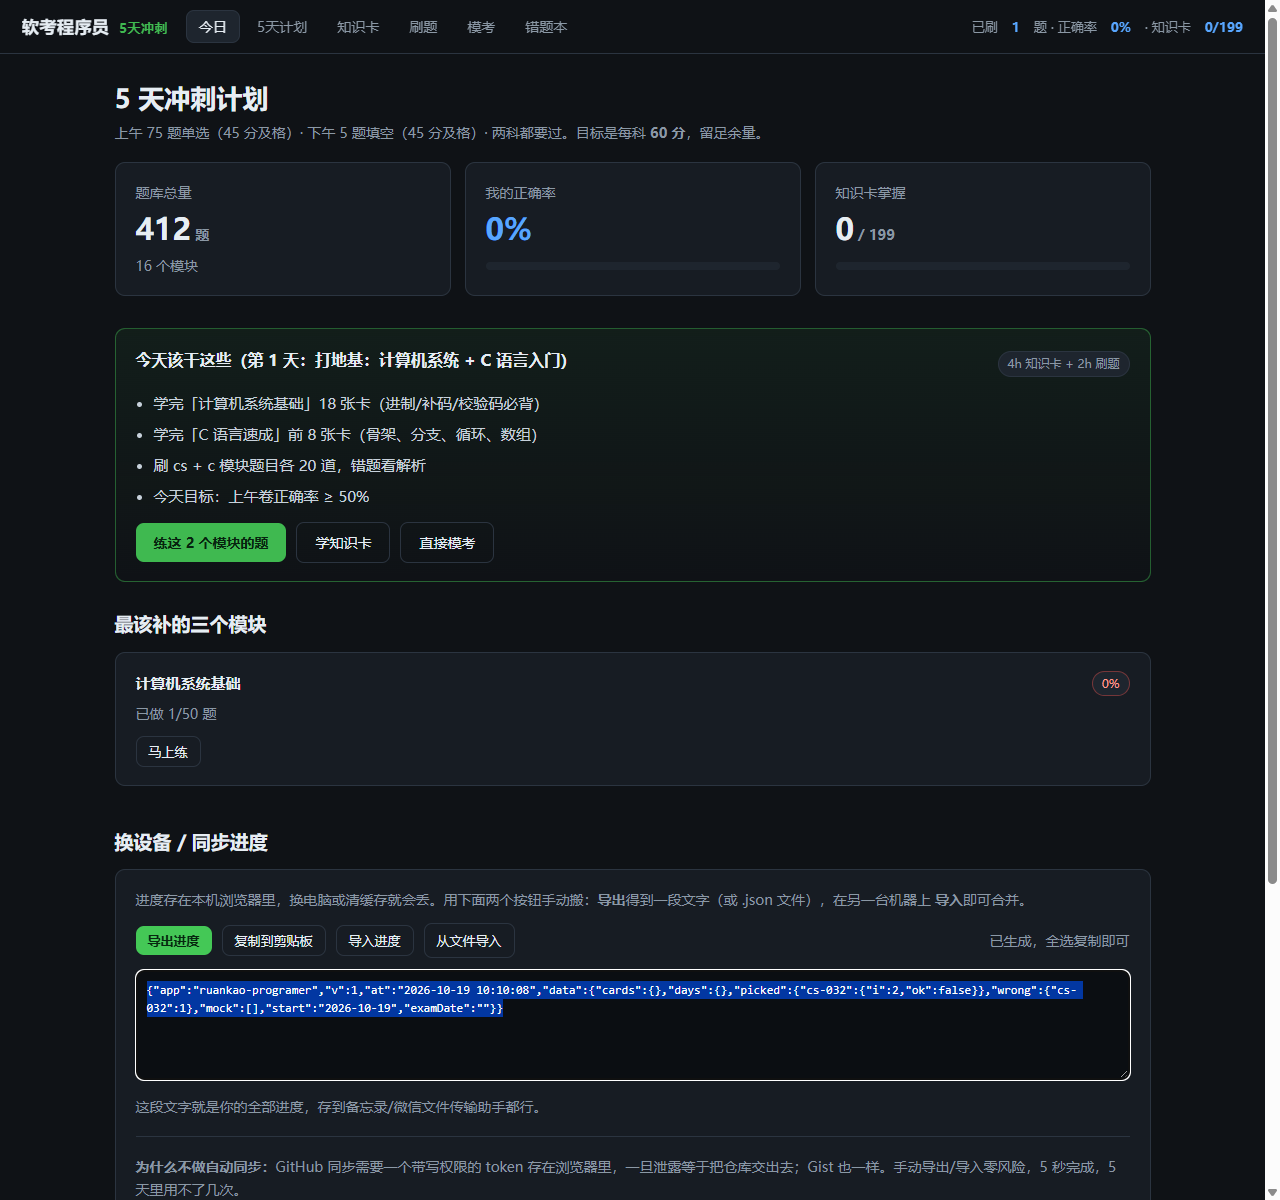
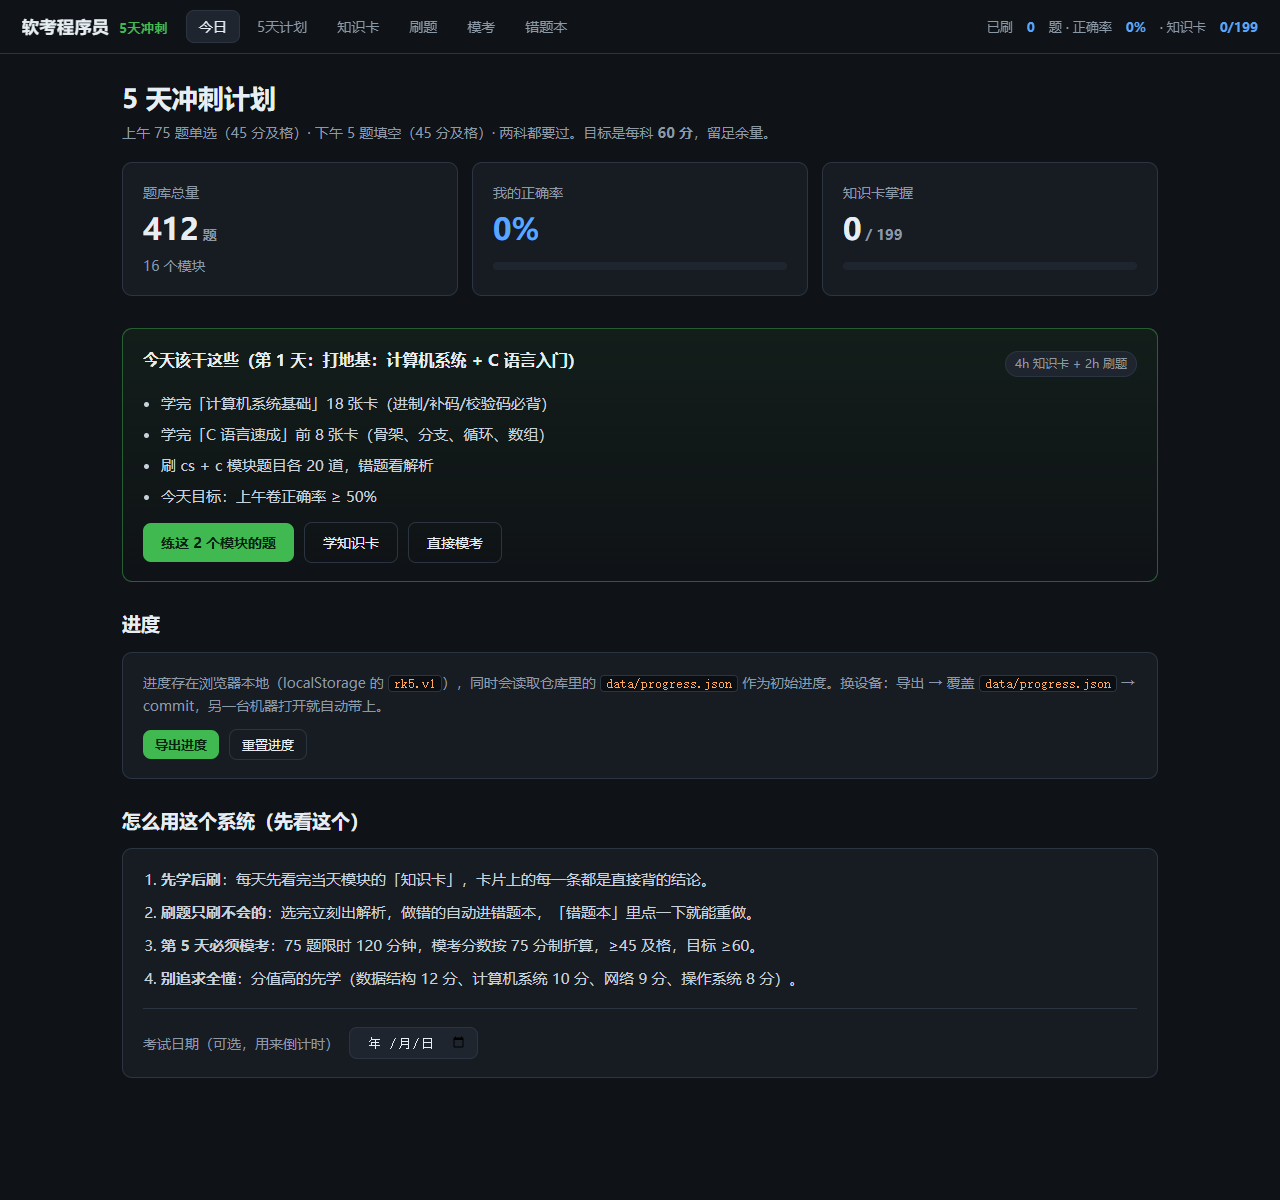
进度改为 data/progress.json，页面只保留导出/重置
按简化要求重做：去掉导入、合并、剪贴板等一堆逻辑，只留真正需要的部分。

新增 data/progress.json（结构固定，可手工编辑）：
  { app, v, at, data: { cards, days, picked, wrong, mock, start, examDate, savedAt } }

页面行为：
- 首页「进度」区只有两个按钮：导出进度、重置进度
- 导出 → 直接下载 progress.json（同名同格式），覆盖仓库里的文件后 commit 即可
- 启动时 fetch data/progress.json：本机为空、或仓库版 savedAt 更新时采用；否则保留本机记录
- file:// 下 fetch 被浏览器拦截，自动只走 localStorage，不报错
- 每次 save() 写入 savedAt 时间戳，用于判断哪边更新

README 补了完整的三步操作（导出 → 覆盖 → commit）。

diff --git a/app.js b/app.js
@@ -18,7 +18,7 @@
 
   /* ---------- 状态 ---------- */
   const KEY = 'rk5.v1';
-  const DEF = { cards: {}, days: {}, picked: {}, wrong: {}, mock: [], start: todayStr(), examDate: '' };
+  const DEF = { cards: {}, days: {}, picked: {}, wrong: {}, mock: [], start: todayStr(), examDate: '', savedAt: 0 };
   let S = load();
   function todayStr() { const d = new Date(); return d.getFullYear() + '-' + pad(d.getMonth() + 1) + '-' + pad(d.getDate()); }
   function pad(n) { return n < 10 ? '0' + n : '' + n; }
@@ -28,7 +28,7 @@
     try { return Object.assign(base, JSON.parse(localStorage.getItem(KEY) || '{}')); }
     catch (e) { return base; }
   }
-  function save() { localStorage.setItem(KEY, JSON.stringify(S)); }
+  function save() { S.savedAt = Date.now(); localStorage.setItem(KEY, JSON.stringify(S)); }
 
   /* ---------- 计划 ---------- */
   const PLAN = [
@@ -120,25 +120,15 @@
       <div class="sub" style="margin:6px 0 10px">已做 ${w.done}/${w.total} 题</div>
       <button class="btn sm ghost" onclick="startQuiz(['${w.m.id}'],15)">马上练</button></div>`).join('')}</div>` : ''}
 
-    <h2>换设备 / 同步进度</h2>
+    <h2>进度</h2>
     <div class="card">
-      <p class="sub" style="margin-bottom:12px">进度存在本机浏览器里，换电脑或清缓存就会丢。用下面两个按钮手动搬：<b>导出</b>得到一段文字（或 .json 文件），在另一台机器上 <b>导入</b>即可合并。</p>
+      <p class="sub" style="margin-bottom:12px">进度存在浏览器本地（localStorage 的 <code>rk5.v1</code>），同时会读取仓库里的 <code>data/progress.json</code> 作为初始进度。换设备：导出 → 覆盖 <code>data/progress.json</code> → commit，另一台机器打开就自动带上。</p>
       <div class="row">
         <button class="btn sm" onclick="exportProgress()">导出进度</button>
-        <button class="btn sm ghost" onclick="copyProgress()">复制到剪贴板</button>
-        <button class="btn sm ghost" onclick="importPrompt()">导入进度</button>
-        <label class="btn sm ghost" style="cursor:pointer;margin:0">从文件导入
-          <input type="file" accept=".json,application/json" onchange="importFile(this)" style="display:none">
-        </label>
+        <button class="btn sm ghost" onclick="resetAll()">重置进度</button>
         <span class="spacer"></span>
         <span class="sub" id="syncHint"></span>
       </div>
-      <div id="exportBox" style="display:none;margin-top:12px">
-        <textarea id="exportText" readonly style="width:100%;height:110px;background:#0b0e12;color:#8b98a5;border:1px solid var(--line);border-radius:8px;padding:10px;font:12px/1.5 Consolas,monospace;resize:vertical"></textarea>
-        <div class="row" style="margin-top:8px"><span class="sub">这段文字就是你的全部进度，存到备忘录/微信文件传输助手都行。</span></div>
-      </div>
-      <hr>
-      <div class="sub"><b>为什么不做自动同步：</b>GitHub 同步需要一个带写权限的 token 存在浏览器里，一旦泄露等于把仓库交出去；Gist 也一样。手动导出/导入零风险，5 秒完成，5 天里用不了几次。</div>
     </div>
 
     <h2>怎么用这个系统（先看这个）</h2>
@@ -151,14 +141,13 @@
       </ol>
       <hr>
       <div class="row"><span class="sub">考试日期（可选，用来倒计时）</span>
-        <input type="date" value="${S.examDate}" onchange="setExamDate(this.value)" style="background:var(--panel2);border:1px solid var(--line);color:var(--text);border-radius:8px;padding:6px 10px">
-        <button class="btn sm ghost" onclick="resetAll()">清空全部进度</button></div>
+        <input type="date" value="${S.examDate}" onchange="setExamDate(this.value)" style="background:var(--panel2);border:1px solid var(--line);color:var(--text);border-radius:8px;padding:6px 10px"></div>
     </div>`;
   }
 
   window.setExamDate = function (v) { S.examDate = v; save(); render(); };
 
-  /* ---------- 进度导出 / 导入（跨设备同步） ---------- */
+  /* ---------- 进度：导出 / 读取 progress.json / 重置 ---------- */
   const SYNC_TAG = 'ruankao-programer';
 
   function exportPayload() {
@@ -167,119 +156,52 @@
       v: 1,
       at: new Date().toISOString().slice(0, 19).replace('T', ' '),
       data: S
-    });
+    }, null, 2);
   }
 
+  /* 导出成 data/progress.json 同款格式；覆盖仓库里的文件后 commit 即可跨设备同步 */
   window.exportProgress = function () {
-    const box = document.getElementById('exportBox');
-    const ta = document.getElementById('exportText');
-    ta.value = exportPayload();
-    box.style.display = 'block';
-    ta.focus(); ta.select();
-    hint('已生成，全选复制即可');
+    const blob = new Blob([exportPayload()], { type: 'application/json' });
+    const url = URL.createObjectURL(blob);
+    const link = document.createElement('a');
+    link.href = url;
+    link.download = 'progress.json';
+    document.body.appendChild(link);
+    link.click();
+    document.body.removeChild(link);
+    setTimeout(() => URL.revokeObjectURL(url), 1000);
+    hint('已下载 progress.json，覆盖 data/progress.json 后 commit');
   };
 
-  window.copyProgress = function () {
-    const txt = exportPayload();
-    const done = () => hint('已复制到剪贴板');
-    if (navigator.clipboard && window.isSecureContext) {
-      navigator.clipboard.writeText(txt).then(done).catch(() => fallbackCopy(txt, done));
-    } else {
-      fallbackCopy(txt, done);
-    }
-  };
-
-  function fallbackCopy(txt, done) {
-    // file:// 下 clipboard API 不可用，退回 textarea + execCommand
-    const ta = document.createElement('textarea');
-    ta.value = txt;
-    ta.style.cssText = 'position:fixed;top:-9999px';
-    document.body.appendChild(ta);
-    ta.select();
-    let ok = false;
-    try { ok = document.execCommand('copy'); } catch (e) { ok = false; }
-    document.body.removeChild(ta);
-    if (ok) done(); else { window.exportProgress(); hint('无法自动复制，已展开文本，请手动全选复制'); }
-  }
-
-  window.importPrompt = function () {
-    const txt = prompt('把另一台机器导出的进度文字粘贴到这里：');
-    if (txt === null) return;
-    applyImport(txt);
-  };
-
-  window.importFile = function (input) {
-    const f = input.files && input.files[0];
-    if (!f) return;
-    const reader = new FileReader();
-    reader.onload = () => applyImport(String(reader.result || ''));
-    reader.onerror = () => alert('读取文件失败');
-    reader.readAsText(f, 'utf-8');
-    input.value = '';
-  };
-
-  function applyImport(raw) {
-    let obj;
-    try { obj = JSON.parse(raw); } catch (e) { return alert('格式不对：这不是本系统导出的进度文字'); }
-    const incoming = obj && obj.data ? obj.data : obj;
-    if (!incoming || typeof incoming !== 'object' || !('picked' in incoming || 'cards' in incoming || 'days' in incoming)) {
-      return alert('格式不对：没找到进度数据');
-    }
-    const stat = mergeProgress(incoming);
-    save(); render();
-    alert('导入完成，已合并：\n' +
-      '知识卡 +' + stat.cards + ' 张\n' +
-      '刷题记录 +' + stat.picked + ' 条\n' +
-      '错题 +' + stat.wrong + ' 条\n' +
-      '模考记录 +' + stat.mock + ' 次\n' +
-      '已完成天数 +' + stat.days + ' 天\n\n' +
-      '（同一道题两边都有记录时，以"做对"为准）');
-  }
-
-  /* 合并而不是覆盖：两边都学过的内容不会互相冲掉 */
-  function mergeProgress(inc) {
-    const stat = { cards: 0, picked: 0, wrong: 0, mock: 0, days: 0 };
-
-    Object.keys(inc.cards || {}).forEach(k => {
-      if (!S.cards[k]) { S.cards[k] = 1; stat.cards++; }
-    });
-
-    Object.keys(inc.days || {}).forEach(k => {
-      if (inc.days[k] && !S.days[k]) { S.days[k] = true; stat.days++; }
-    });
-
-    Object.keys(inc.picked || {}).forEach(id => {
-      const a = S.picked[id], b = inc.picked[id];
-      if (!a) { S.picked[id] = b; stat.picked++; }
-      else if (!a.ok && b && b.ok) { S.picked[id] = b; stat.picked++; }
-    });
-
-    Object.keys(inc.wrong || {}).forEach(id => {
-      const cur = S.wrong[id] || 0, add = inc.wrong[id] || 0;
-      if (add > cur) { S.wrong[id] = add; stat.wrong++; }
-    });
-
-    const seen = {};
-    (S.mock || []).forEach(m => { seen[m.t + '|' + m.score + '|' + m.n] = 1; });
-    (inc.mock || []).forEach(m => {
-      const k = m.t + '|' + m.score + '|' + m.n;
-      if (!seen[k]) { seen[k] = 1; S.mock.push(m); stat.mock++; }
-    });
-    S.mock.sort((x, y) => String(x.t).localeCompare(String(y.t)));
-    if (S.mock.length > 30) S.mock = S.mock.slice(-30);
-
-    if (!S.examDate && inc.examDate) S.examDate = inc.examDate;
-    if (inc.start && (!S.start || inc.start < S.start)) S.start = inc.start;
-
-    return stat;
+  /* 启动时读 data/progress.json：本机没有进度、或仓库里的更早就采用，避免冲掉本机正在学的记录 */
+  function loadRepoProgress() {
+    if (!window.fetch) return;
+    fetch('data/progress.json', { cache: 'no-store' })
+      .then(r => (r.ok ? r.json() : null))
+      .then(obj => {
+        const inc = obj && obj.data ? obj.data : obj;
+        if (!inc || !inc.picked) return;
+        const localEmpty = !Object.keys(S.picked).length && !Object.keys(S.cards).length && !Object.keys(S.days).length;
+        const repoHasData = Object.keys(inc.picked || {}).length || Object.keys(inc.cards || {}).length || Object.keys(inc.days || {}).length;
+        if (!repoHasData) return;
+        const repoIsNewer = (inc.savedAt || 0) > (S.savedAt || 0);
+        if (!localEmpty && !repoIsNewer) return;
+        Object.keys(S).forEach(k => delete S[k]);
+        Object.assign(S, JSON.parse(JSON.stringify(DEF)), inc);
+        localStorage.setItem(KEY, JSON.stringify(S));
+        render();
+        hint('已载入 data/progress.json');
+      })
+      .catch(() => { /* file:// 下 fetch 被浏览器拦截，忽略；localStorage 照常工作 */ });
   }
 
   function hint(msg) {
     const el = document.getElementById('syncHint');
     if (!el) return;
     el.textContent = msg;
-    setTimeout(() => { if (el.textContent === msg) el.textContent = ''; }, 2500);
+    setTimeout(() => { if (el.textContent === msg) el.textContent = ''; }, 3000);
   }
+
   window.resetAll = function () {
     if (!confirm('确定清空所有学习进度？')) return;
     Object.keys(S).forEach(k => delete S[k]);
@@ -627,6 +549,7 @@
     window.scrollTo(0, 0);
   };
 
-  /* 错题本入口已在上面 startQuiz(false) 处理 */
+  /* 错题本重做入口走 startQuiz(false) */
   render();
+  loadRepoProgress();
 })();

diff --git a/README.md b/README.md
@@ -38,24 +38,37 @@
 | 刷题 | 按模块 / 随机 20、40 题；选完立刻出解析 |
 | 模考 | 按上午卷真实分值分布抽 75 题，120 分钟倒计时，75 分制打分 + 分模块失分表 |
 | 错题本 | 做错自动进本，反复重做直到做对 |
-| 同步 | 首页「换设备 / 同步进度」：导出进度 → 另一台机器导入，自动合并 |
+| 同步 | 首页「进度」：导出/重置；`data/progress.json` 用 git 跨设备同步 |
 
-## 换设备怎么同步进度
+## 进度放在哪、怎么跨设备
 
-进度存在**本机浏览器**的 localStorage 里，换电脑或清缓存会丢。首页底部有「换设备 / 同步进度」：
+学习进度**同时存在两个地方**：
 
-1. 旧机器点 **导出进度** → **复制到剪贴板**（或复制框里的文字）
-2. 新机器打开同一页面 → **导入进度** → 粘贴 → 确定
-3. 也可以用 **从文件导入**（导出时把文字存成 `.json`）
+1. **浏览器本地**（localStorage 的 `rk5.v1`）——你刷题时实时写，关掉页面还在
+2. **仓库里的 `data/progress.json`**——页面启动时读它，作为跨设备的进度来源
 
-导入是**合并**，不是覆盖：
+### 换设备的完整流程
 
-- 知识卡、完成天数：两边取并集
-- 刷题记录：同一题以「做对」为准，不会被旧机器的错题记录冲掉
-- 错题次数、模考记录：取较大值 / 去重追加，重复导入不会翻倍
+```powershell
+# 旧机器：点页面上的「导出进度」，浏览器会下载 progress.json
+# 用它覆盖仓库里的文件，然后提交
+cd E:\MyProject\ruankao-programer
+git add data/progress.json
+git commit -m "更新学习进度"
+git push
+```
 
-**为什么没做自动同步**：GitHub / Gist 自动同步需要把一个带写权限的 token 存在浏览器里，
-一旦泄露等于把仓库交出去；而且 5 天里换设备也就一两次，手动导出/导入零风险、5 秒完成。
+新机器打开页面（或直接看 GitHub Pages），会自动载入这份进度。
+
+### 规则
+
+- 本机**没有**进度 → 直接用 `progress.json`
+- 本机有进度，但 `progress.json` 的 `savedAt` **更新** → 采用仓库版（你在另一台机器上学得更多）
+- 本机有进度且不比仓库旧 → **保留本机**，不会被旧文件冲掉
+- `file://` 打开时浏览器禁止 `fetch` 读本地文件，此时只用 localStorage；导出照常可用
+
+**为什么要导出而不是自动写文件**：静态网页没有写本地文件的权限，浏览器也不允许它读项目目录。
+所以"写回 progress.json"这一步必须由你点导出 + commit，这是纯静态方案能做到的最短路径。
 
 题库规模：**412 道选择题**，答案分布 A/B/C/D 各 25%（防止"全选 B"蒙分），每题都有解析。
 知识卡：**199 张**，按考纲分值排序；其中 **193 张配了 225 道例题**（题目 → 分步过程 → 答案），
@@ -87,6 +100,7 @@ ruankao-5day/
   run-server.ps1      可选：想用手机/局域网访问时启动本地服务器
   data/m01..m11.js    知识卡 + 题库（每行都是数据，改起来很直观）
   data/ex-*.js        知识卡例题（按 模块id#卡片序号 挂到卡片上，不动卡片原文）
+  data/progress.json  学习进度（导出的文件直接覆盖它，git 同步用）
   tools/build-data.js 数据校验 + 打散答案位置（改完数据跑一次）
 ```
 
